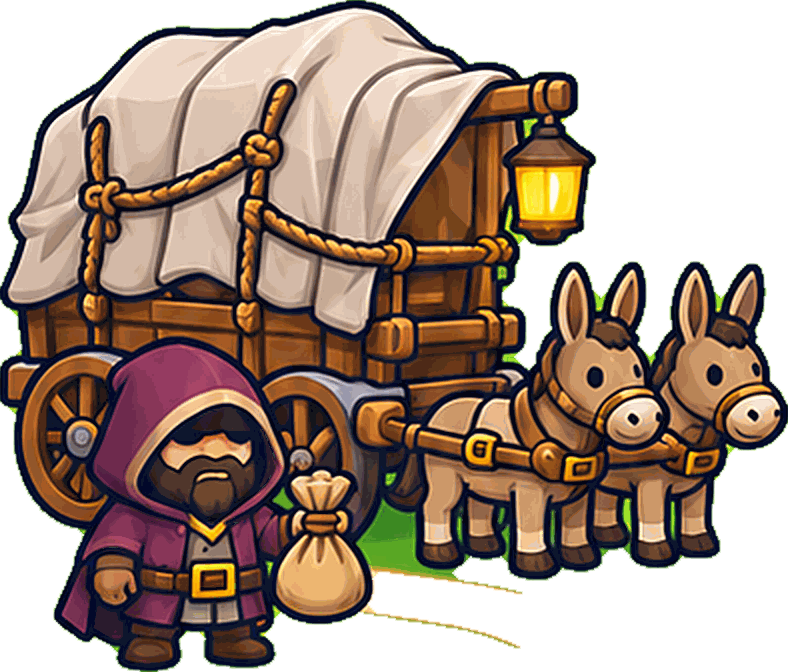
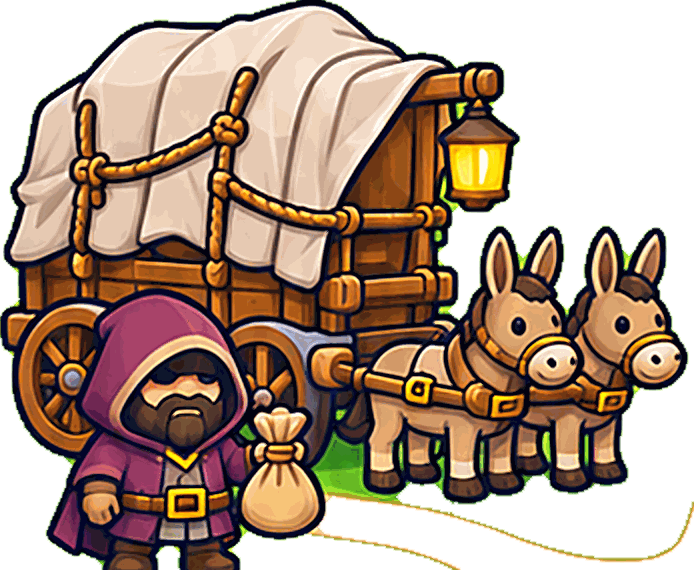
Reino: dibujo nuevo con bordes más amplios, más nítido
Claude-Session: https://claude.ai/code/session_01JNP7QCwsBCjLSMGndzwo2W

diff --git a/docs/index.html b/docs/index.html
@@ -568,7 +568,7 @@ body.nav .screen.hogar { padding-bottom: 0; } body.nav .screen.hogar .hgscroll {
 .hgtop h2 { font-family: var(--font-display); font-weight: 400; font-size: 1.6rem; margin: 0 auto 0 0; }
 .hgscroll { width: 100%; height: 100%; min-height: 0; overflow-x: hidden; overflow-y: auto; overscroll-behavior: contain; display: flex; flex-direction: column; align-items: center; }
 .uprow .mini { width: 26px; height: 26px; border-radius: 6px; vertical-align: middle; object-fit: cover; }
-.hgmap { position: relative; flex: none; container-type: inline-size; width: max(min(760px, 100%), calc((100dvh - var(--navh) - var(--sb) + 18px) * 914 / 1721)); aspect-ratio: 914 / 1721;   /* de borde a borde y de arriba abajo (si sobra ancho, se recortan un poco los lados); si no cabe, se baja con el dedo */ border: 0; border-radius: 0; overflow: hidden; box-shadow: 0 0 40px rgba(0,0,0,.5);
+.hgmap { position: relative; flex: none; container-type: inline-size; width: max(min(760px, 100%), calc((100dvh - var(--navh) - var(--sb) + 18px) * 941 / 1672)); aspect-ratio: 941 / 1672;   /* de borde a borde y de arriba abajo (si sobra ancho, se recortan un poco los lados); si no cabe, se baja con el dedo */ border: 0; border-radius: 0; overflow: hidden; box-shadow: 0 0 40px rgba(0,0,0,.5);
   background: radial-gradient(70% 40% at 50% 20%, #ffe7b0 0, transparent 70%), linear-gradient(#8fd1ff 0, #c9ecff 34%, #9bd46a 34.2%, #6fb94a 60%, #5aa23f 100%); }
 .hgmap.art { background: #5aa23f; }
 .hgdim { position: absolute; inset: 0; background: rgba(10,14,30,.32); opacity: 0; transition: opacity .18s; pointer-events: none; }
@@ -5607,19 +5607,19 @@ const campana1 = () => perfil.all || kingdomDone('volcan');
 /* ---- el mapa del reino: el dibujo entero de fondo; cada lugar es una zona que se toca (hit: rectángulo en %)
    y lleva su cartel (lbl: centro en %) en los huecos de hierba que deja el dibujo ---- */
 const EDIFICIOS = [
-  { id: 'trono', name: 'El Trono', hit: [20.8,  0.3,  79.3,  27.9], lbl: [50,  29.6], txt: 'Tus héroes: quién te acompaña a la batalla y, más adelante, sus niveles y su equipo.' },
-  { id: 'murallas', name: 'Murallas', hit: [20.8,  54.3,  79.0,  70.3], lbl: [50,  71.4], txt: 'El estandarte y el aspecto de tu castillo, y sus defensas: vida de la muralla y fuerza de las torres.' },
-  { id: 'sanctum', name: 'Sanctum Arcano', hit: [70.0,  12.5,  96.5,  31.8], lbl: [80,  33.3], txt: 'Crea hechizos y elige uno para llevarlo a la batalla.' },
-  { id: 'cripta', name: 'Cripta', hit: [2.4,  22.4,  37.7,  31.8], lbl: [20,  33.3], txt: 'Las bestias del reino. Elige una para que te acompañe en las batallas.' },
-  { id: 'taberna', name: 'Taberna', hit: [0.0,  35.7,  32.8,  50.6], lbl: [17,  52.8], txt: 'Mercenarios de otros mundos. Se pagan con oro.' },
-  { id: 'cuartel', name: 'Cuartel', hit: [65.6,  35.9,  99.3,  53.3], lbl: [83,  54.6], txt: 'Hasta tres unidades en entrenamiento intensivo: ganan copias de su carta con el tiempo.' },
-  { id: 'consulado', name: 'Alto Consulado Bélico', hit: [33.4,  33.1,  65.6,  50.4], lbl: [49.6,  52.4], txt: 'Tu clan: miembros, donaciones y guerras de clanes.' },
-  { id: 'mercado', name: 'Mercado negro', hit: [1.1,  73.5,  45.1,  93.7], lbl: [23,  95.6], txt: 'Un comerciante que no hace preguntas. Tres ofertas que cambian cada 8 horas.' },
-  { id: 'retorno', name: 'Altar del Retorno', hit: [55.8,  71.2,  99.3,  92.7], lbl: [77,  95.2], txt: 'Devuelve una unidad al nivel 1 y recuperas el 60 % del oro y las insignias que gastaste en subirla.' },
+  { id: 'trono', name: 'El Trono', hit: [25.0,  5.4,  74.4,  30.2], lbl: [50,  31.8], txt: 'Tus héroes: quién te acompaña a la batalla y, más adelante, sus niveles y su equipo.' },
+  { id: 'murallas', name: 'Murallas', hit: [25.5,  53.8,  74.4,  69.4], lbl: [50,  70.9], txt: 'El estandarte y el aspecto de tu castillo, y sus defensas: vida de la muralla y fuerza de las torres.' },
+  { id: 'sanctum', name: 'Sanctum Arcano', hit: [67.0,  16.4,  89.8,  33.5], lbl: [76,  35.1], txt: 'Crea hechizos y elige uno para llevarlo a la batalla.' },
+  { id: 'cripta', name: 'Cripta', hit: [11.7,  26.6,  39.9,  33.5], lbl: [23.5,  35.1], txt: 'Las bestias del reino. Elige una para que te acompañe en las batallas.' },
+  { id: 'taberna', name: 'Taberna', hit: [8.0,  36.8,  35.6,  50.8], lbl: [22,  52.5], txt: 'Mercenarios de otros mundos. Se pagan con oro.' },
+  { id: 'cuartel', name: 'Cuartel', hit: [63.2,  37.4,  92.5,  52.9], lbl: [78,  54.2], txt: 'Hasta tres unidades en entrenamiento intensivo: ganan copias de su carta con el tiempo.' },
+  { id: 'consulado', name: 'Alto Consulado Bélico', hit: [36.1,  35.0,  63.2,  50.5], lbl: [49.6,  51.9], txt: 'Tu clan: miembros, donaciones y guerras de clanes.' },
+  { id: 'mercado', name: 'Mercado negro', hit: [8.5,  71.5,  45.7,  88.5], lbl: [27,  90.6], txt: 'Un comerciante que no hace preguntas. Tres ofertas que cambian cada 8 horas.' },
+  { id: 'retorno', name: 'Altar del Retorno', hit: [54.7,  69.1,  91.9,  87.9], lbl: [73,  90.1], txt: 'Devuelve una unidad al nivel 1 y recuperas el 60 % del oro y las insignias que gastaste en subirla.' },
 ];
 const HOGAR_ART = 'img/reino/reino.jpg';
 // cada lugar recortado del propio fondo (encaja al píxel): al tocarlo se ilumina su contorno y crece un poco
-const SEL_POS = {trono: [20.788,  0.349,  58.534,  27.542],  cripta: [2.407,  24.288,  35.339,  7.554],  sanctum: [72.429,  12.493,  24.07,  19.349],  taberna: [0.328,  35.735,  32.385,  14.817],  consulado: [33.37,  33.178,  32.276,  17.257],  cuartel: [65.646,  35.967,  33.698,  17.374],  murallas: [20.788,  54.561,  58.206,  15.747],  mercado: [1.313,  73.911,  43.107,  19.524],  retorno: [55.799,  71.18,  43.545,  21.499]};
+const SEL_POS = {trono:  [24.973,  5.383,  49.416,  24.821],  cripta:  [11.69,  26.615,  28.162,  6.878],  sanctum:  [66.95,  16.447,  22.848,  17.045],  taberna:  [7.97,  36.782,  27.418,  14.055],  consulado:  [36.132,  34.988,  27.099,  15.371],  cuartel:  [63.231,  37.38,  29.224,  15.55],  murallas:  [25.505,  53.828,  48.884,  15.55],  mercado:  [8.82,  71.471,  36.876,  17.045],  retorno:  [54.729,  69.079,  37.194,  18.84]};
 // los tejados, banderas y estandartes azules del dibujo se pintan del color de tu reino (el cielo y los contornos, no)
 const reColURL = {};
 function reinoColor(src, color, cb) {

diff --git a/prototipos/batalla/reino.js b/prototipos/batalla/reino.js
@@ -35,19 +35,19 @@ const campana1 = () => perfil.all || kingdomDone('volcan');
 /* ---- el mapa del reino: el dibujo entero de fondo; cada lugar es una zona que se toca (hit: rectángulo en %)
    y lleva su cartel (lbl: centro en %) en los huecos de hierba que deja el dibujo ---- */
 const EDIFICIOS = [
-  { id: 'trono', name: 'El Trono', hit: [20.8,  0.3,  79.3,  27.9], lbl: [50,  29.6], txt: 'Tus héroes: quién te acompaña a la batalla y, más adelante, sus niveles y su equipo.' },
-  { id: 'murallas', name: 'Murallas', hit: [20.8,  54.3,  79.0,  70.3], lbl: [50,  71.4], txt: 'El estandarte y el aspecto de tu castillo, y sus defensas: vida de la muralla y fuerza de las torres.' },
-  { id: 'sanctum', name: 'Sanctum Arcano', hit: [70.0,  12.5,  96.5,  31.8], lbl: [80,  33.3], txt: 'Crea hechizos y elige uno para llevarlo a la batalla.' },
-  { id: 'cripta', name: 'Cripta', hit: [2.4,  22.4,  37.7,  31.8], lbl: [20,  33.3], txt: 'Las bestias del reino. Elige una para que te acompañe en las batallas.' },
-  { id: 'taberna', name: 'Taberna', hit: [0.0,  35.7,  32.8,  50.6], lbl: [17,  52.8], txt: 'Mercenarios de otros mundos. Se pagan con oro.' },
-  { id: 'cuartel', name: 'Cuartel', hit: [65.6,  35.9,  99.3,  53.3], lbl: [83,  54.6], txt: 'Hasta tres unidades en entrenamiento intensivo: ganan copias de su carta con el tiempo.' },
-  { id: 'consulado', name: 'Alto Consulado Bélico', hit: [33.4,  33.1,  65.6,  50.4], lbl: [49.6,  52.4], txt: 'Tu clan: miembros, donaciones y guerras de clanes.' },
-  { id: 'mercado', name: 'Mercado negro', hit: [1.1,  73.5,  45.1,  93.7], lbl: [23,  95.6], txt: 'Un comerciante que no hace preguntas. Tres ofertas que cambian cada 8 horas.' },
-  { id: 'retorno', name: 'Altar del Retorno', hit: [55.8,  71.2,  99.3,  92.7], lbl: [77,  95.2], txt: 'Devuelve una unidad al nivel 1 y recuperas el 60 % del oro y las insignias que gastaste en subirla.' },
+  { id: 'trono', name: 'El Trono', hit: [25.0,  5.4,  74.4,  30.2], lbl: [50,  31.8], txt: 'Tus héroes: quién te acompaña a la batalla y, más adelante, sus niveles y su equipo.' },
+  { id: 'murallas', name: 'Murallas', hit: [25.5,  53.8,  74.4,  69.4], lbl: [50,  70.9], txt: 'El estandarte y el aspecto de tu castillo, y sus defensas: vida de la muralla y fuerza de las torres.' },
+  { id: 'sanctum', name: 'Sanctum Arcano', hit: [67.0,  16.4,  89.8,  33.5], lbl: [76,  35.1], txt: 'Crea hechizos y elige uno para llevarlo a la batalla.' },
+  { id: 'cripta', name: 'Cripta', hit: [11.7,  26.6,  39.9,  33.5], lbl: [23.5,  35.1], txt: 'Las bestias del reino. Elige una para que te acompañe en las batallas.' },
+  { id: 'taberna', name: 'Taberna', hit: [8.0,  36.8,  35.6,  50.8], lbl: [22,  52.5], txt: 'Mercenarios de otros mundos. Se pagan con oro.' },
+  { id: 'cuartel', name: 'Cuartel', hit: [63.2,  37.4,  92.5,  52.9], lbl: [78,  54.2], txt: 'Hasta tres unidades en entrenamiento intensivo: ganan copias de su carta con el tiempo.' },
+  { id: 'consulado', name: 'Alto Consulado Bélico', hit: [36.1,  35.0,  63.2,  50.5], lbl: [49.6,  51.9], txt: 'Tu clan: miembros, donaciones y guerras de clanes.' },
+  { id: 'mercado', name: 'Mercado negro', hit: [8.5,  71.5,  45.7,  88.5], lbl: [27,  90.6], txt: 'Un comerciante que no hace preguntas. Tres ofertas que cambian cada 8 horas.' },
+  { id: 'retorno', name: 'Altar del Retorno', hit: [54.7,  69.1,  91.9,  87.9], lbl: [73,  90.1], txt: 'Devuelve una unidad al nivel 1 y recuperas el 60 % del oro y las insignias que gastaste en subirla.' },
 ];
 const HOGAR_ART = 'img/reino/reino.jpg';
 // cada lugar recortado del propio fondo (encaja al píxel): al tocarlo se ilumina su contorno y crece un poco
-const SEL_POS = {trono: [20.788,  0.349,  58.534,  27.542],  cripta: [2.407,  24.288,  35.339,  7.554],  sanctum: [72.429,  12.493,  24.07,  19.349],  taberna: [0.328,  35.735,  32.385,  14.817],  consulado: [33.37,  33.178,  32.276,  17.257],  cuartel: [65.646,  35.967,  33.698,  17.374],  murallas: [20.788,  54.561,  58.206,  15.747],  mercado: [1.313,  73.911,  43.107,  19.524],  retorno: [55.799,  71.18,  43.545,  21.499]};
+const SEL_POS = {trono:  [24.973,  5.383,  49.416,  24.821],  cripta:  [11.69,  26.615,  28.162,  6.878],  sanctum:  [66.95,  16.447,  22.848,  17.045],  taberna:  [7.97,  36.782,  27.418,  14.055],  consulado:  [36.132,  34.988,  27.099,  15.371],  cuartel:  [63.231,  37.38,  29.224,  15.55],  murallas:  [25.505,  53.828,  48.884,  15.55],  mercado:  [8.82,  71.471,  36.876,  17.045],  retorno:  [54.729,  69.079,  37.194,  18.84]};
 // los tejados, banderas y estandartes azules del dibujo se pintan del color de tu reino (el cielo y los contornos, no)
 const reColURL = {};
 function reinoColor(src, color, cb) {

diff --git a/prototipos/batalla/plantilla.html b/prototipos/batalla/plantilla.html
@@ -568,7 +568,7 @@ body.nav .screen.hogar { padding-bottom: 0; } body.nav .screen.hogar .hgscroll {
 .hgtop h2 { font-family: var(--font-display); font-weight: 400; font-size: 1.6rem; margin: 0 auto 0 0; }
 .hgscroll { width: 100%; height: 100%; min-height: 0; overflow-x: hidden; overflow-y: auto; overscroll-behavior: contain; display: flex; flex-direction: column; align-items: center; }
 .uprow .mini { width: 26px; height: 26px; border-radius: 6px; vertical-align: middle; object-fit: cover; }
-.hgmap { position: relative; flex: none; container-type: inline-size; width: max(min(760px, 100%), calc((100dvh - var(--navh) - var(--sb) + 18px) * 914 / 1721)); aspect-ratio: 914 / 1721;   /* de borde a borde y de arriba abajo (si sobra ancho, se recortan un poco los lados); si no cabe, se baja con el dedo */ border: 0; border-radius: 0; overflow: hidden; box-shadow: 0 0 40px rgba(0,0,0,.5);
+.hgmap { position: relative; flex: none; container-type: inline-size; width: max(min(760px, 100%), calc((100dvh - var(--navh) - var(--sb) + 18px) * 941 / 1672)); aspect-ratio: 941 / 1672;   /* de borde a borde y de arriba abajo (si sobra ancho, se recortan un poco los lados); si no cabe, se baja con el dedo */ border: 0; border-radius: 0; overflow: hidden; box-shadow: 0 0 40px rgba(0,0,0,.5);
   background: radial-gradient(70% 40% at 50% 20%, #ffe7b0 0, transparent 70%), linear-gradient(#8fd1ff 0, #c9ecff 34%, #9bd46a 34.2%, #6fb94a 60%, #5aa23f 100%); }
 .hgmap.art { background: #5aa23f; }
 .hgdim { position: absolute; inset: 0; background: rgba(10,14,30,.32); opacity: 0; transition: opacity .18s; pointer-events: none; }

diff --git a/herramientas/reino_v2.py b/herramientas/reino_v2.py
@@ -5,13 +5,13 @@ import os, json, numpy as np
 from PIL import Image
 from scipy import ndimage
 R = os.path.abspath(os.path.join(os.path.dirname(__file__), '..')); SRC = os.path.join(R, 'assets/reino/v2'); OUT = os.path.join(R, 'docs/img/reino')
-RECT = {'trono': (190, 6, 725, 480), 'cripta': (22, 418, 345, 548), 'sanctum': (662, 215, 882, 548), 'taberna': (0, 615, 300, 870), 'consulado': (305, 570, 600, 868),
-        'cuartel': (600, 618, 908, 918), 'murallas': (190, 935, 722, 1210), 'mercado': (10, 1265, 412, 1612), 'retorno': (510, 1225, 908, 1595)}
+RECT = {'trono': (235, 90, 700, 505), 'cripta': (110, 445, 375, 560), 'sanctum': (630, 275, 845, 560), 'taberna': (75, 615, 335, 850), 'consulado': (340, 585, 595, 845),
+        'cuartel': (595, 625, 870, 885), 'murallas': (240, 900, 700, 1160), 'mercado': (80, 1195, 430, 1480), 'retorno': (515, 1155, 865, 1470)}
 bg = Image.open(os.path.join(SRC, 'reino_fondo.png')).convert('RGB'); W, H = bg.size
 from PIL import ImageFilter
 K = 2   # se guarda al doble, con un poco de enfoque: en los móviles se ve nítido
-grande = bg.resize((W * K, H * K), Image.LANCZOS).filter(ImageFilter.UnsharpMask(radius=2, percent=70, threshold=2))
-grande.save(os.path.join(OUT, 'reino.jpg'), quality=88, optimize=True, progressive=True, subsampling=0)
+grande = bg.resize((W * K, H * K), Image.LANCZOS).filter(ImageFilter.MedianFilter(3)).filter(ImageFilter.UnsharpMask(radius=2.2, percent=110, threshold=1))
+grande.save(os.path.join(OUT, 'reino.jpg'), quality=92, optimize=True, progressive=True, subsampling=0)
 a = np.asarray(bg).astype(np.float32) / 255; mx = a.max(-1); mn = a.min(-1); dd = mx - mn + 1e-9; r, g, b = a[..., 0], a[..., 1], a[..., 2]
 hue = np.where(mx == r, ((g - b) / dd) % 6, np.where(mx == g, (b - r) / dd + 2, (r - g) / dd + 4)) / 6; sat = (mx - mn) / (mx + 1e-9)
 grass = (hue > 0.17) & (hue < 0.40) & (sat > 0.35) & (mx > 0.45)
@@ -21,7 +21,7 @@ fondo = ndimage.binary_opening(grass | sand | sky, iterations=2)
 # máscara del azul del reino (tejados, banderas, estandartes): solo eso se pinta con tu color, con los bordes suaves.
 # El Sanctum (morado y violeta) y el cielo no se tocan
 azul = ((hue > 0.56) & (hue < 0.685) & (sat > 0.42) & (mx > 0.3)).astype(np.float32)
-azul[int(H * 0.12):int(H * 0.32), int(W * 0.70):] *= ((hue > 0.56) & (hue < 0.64))[int(H * 0.12):int(H * 0.32), int(W * 0.70):]   # en el Sanctum, solo la bandera y el tejado azules
+azul[int(H * 0.16):int(H * 0.34), int(W * 0.66):int(W * 0.92)] *= ((hue > 0.56) & (hue < 0.64))[int(H * 0.16):int(H * 0.34), int(W * 0.66):int(W * 0.92)]   # en el Sanctum, solo la bandera y el tejado azules
 cielo = np.zeros_like(azul); cielo[:int(H * 0.08)] = ((mx > 0.78) & (sat < 0.62))[:int(H * 0.08)]; azul *= 1 - cielo
 azul = ndimage.binary_opening(azul > 0.5, iterations=1).astype(np.float32)
 azul = np.maximum(azul, ndimage.binary_dilation(azul > 0.5, iterations=1) * ((hue > 0.5) & (hue < 0.72) & (sat > 0.25)))   # el borde suave
